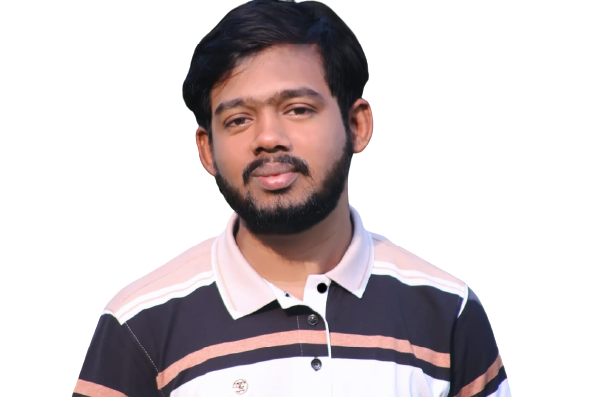
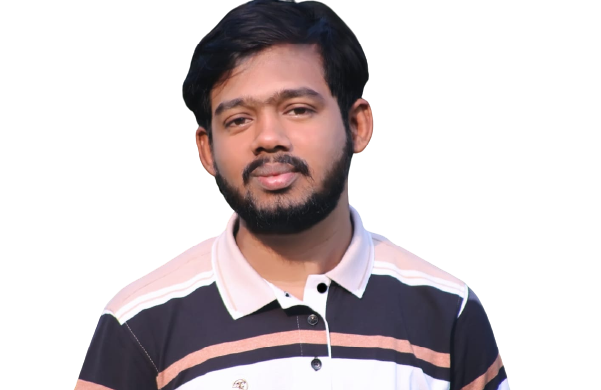
image margin padding issue removed

diff --git a/styles/style.css b/styles/style.css
@@ -1,6 +1,6 @@
 *{
-    margin: 0px;
-    padding: 0px;
+    margin: 0;
+    padding: 0;
     list-style: none;
     text-decoration: none;
 }
@@ -59,6 +59,10 @@ body{
     font-size: 20px;
     cursor: pointer;
     border-radius: 4px;
+    transition: 0.5s;
+}
+.btn:hover{
+    background-color: rgb(0, 190, 158);
 }
 
 .header_bottom{
@@ -71,6 +75,9 @@ body{
 .imgSection{
   margin-left: 80px;
   padding: 40px 0px 0px 20px;
+}
+.imgSection img{
+    vertical-align:bottom;
 }
 .header_bottom_section h2{
     font-size: 30px;

diff --git a/index.html b/index.html
@@ -40,7 +40,7 @@
                 <button class="btn"><i class="fa-solid fa-phone"></i> Contact Me</button>
             </div>
             <div class="header_bottom_section imgSection">
-                <img src="./images/ahanwar.png" alt="" srcset="">
+                <img src="./images/ahanwar.png" alt="ah anwar" srcset="">
             </div>
 
         </div>
